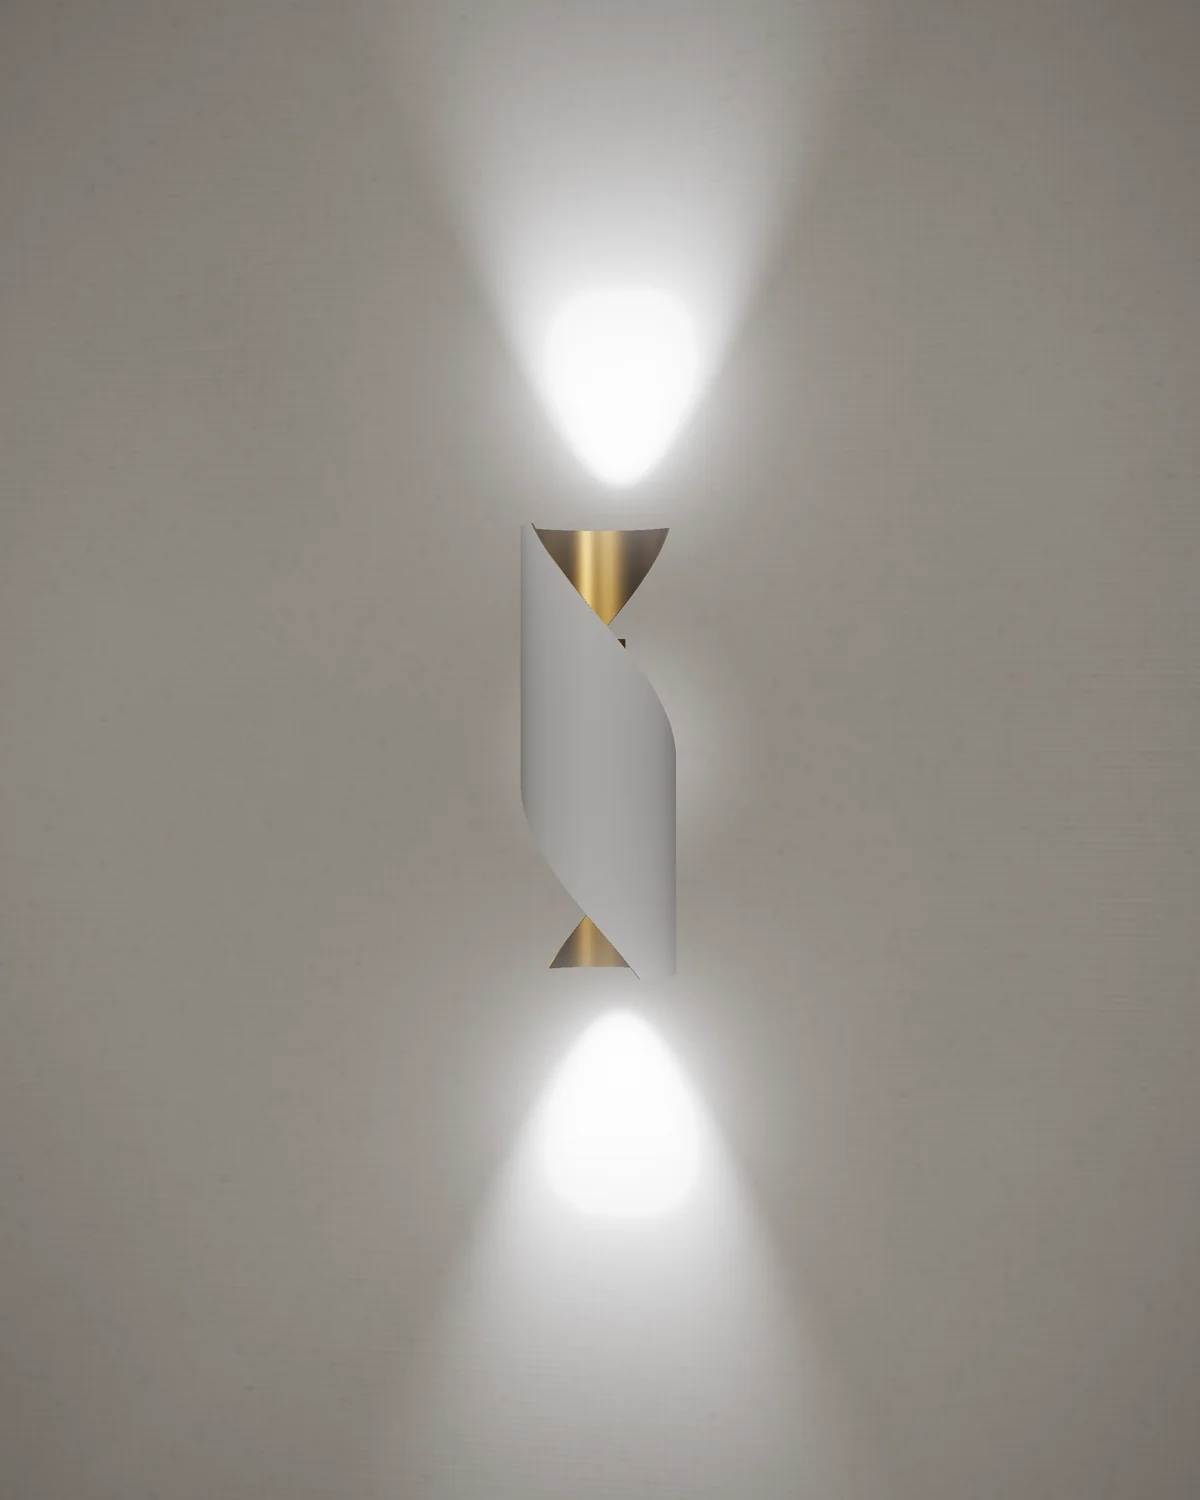
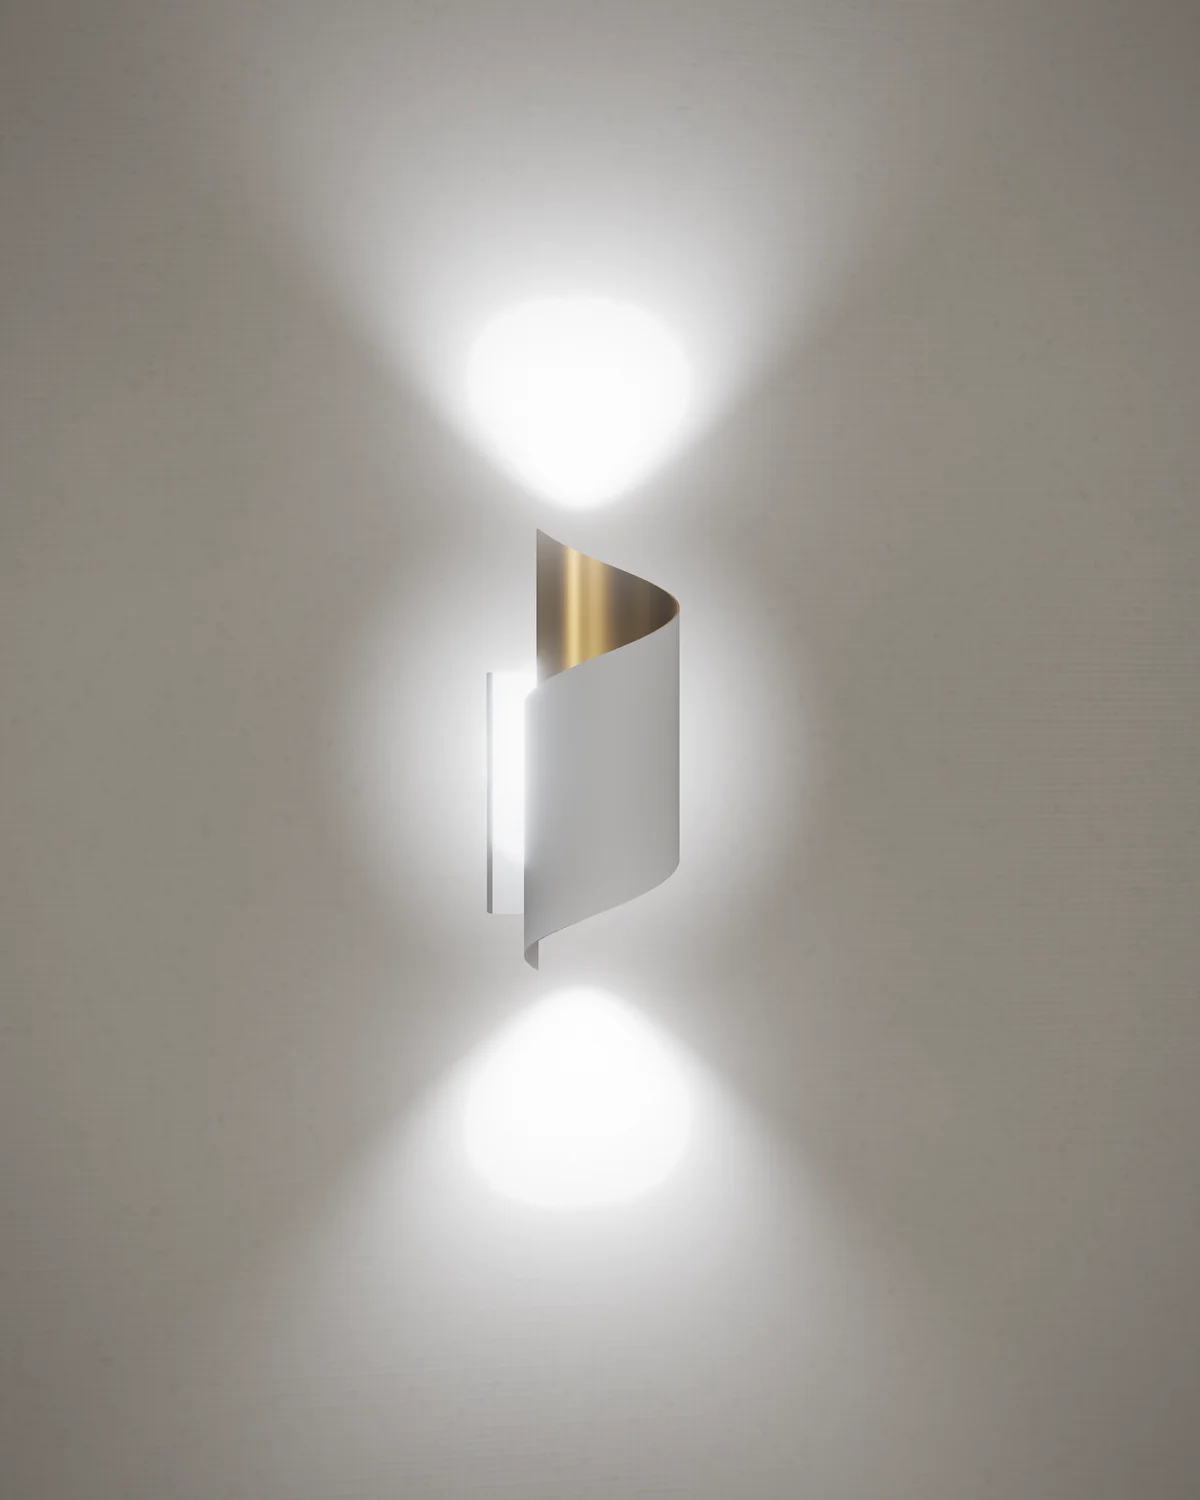
LUMÉANCE : Volute — modèle 3D refait d'après la photo du fournisseur
- Ruban enroulé en hélice sur un tour, bouts verticaux, sens de la spirale corrigé
  (bord supérieur qui monte vers la droite sur la face).
- Platine murale visible à gauche, sous le milieu ; module LED interne masqué.
- Faisceaux plus larges, doublure intérieure plus lumineuse, vue légèrement de gauche.
- 24 visualisations régénérées (mêmes noms de fichiers).

Claude-Session: https://claude.ai/code/session_01SpAfhFNz1rWMKbQ2jPLqg7

Changed region(s): [[0.2467, 0.0307, 0.6783, 0.9813], [0.5858, 0.092, 0.7092, 0.2453], [0.6167, 0.7667, 0.7092, 0.8893]]

diff --git a/lumeance/scripts/render/volute-model.js b/lumeance/scripts/render/volute-model.js
@@ -1,8 +1,7 @@
 // Applique Volute (LUM-APP-002) — modèle 3D d'après les fiches du fournisseur :
 //   grand : hauteur 28 cm, largeur 10 cm ; petit : hauteur 23 cm, largeur 8 cm.
-// Une feuille d'aluminium enroulée en spirale autour d'un axe vertical : la fenêtre angulaire
-// couverte par la feuille tourne avec la hauteur (bord supérieur ouvert à droite, bord inférieur
-// ouvert à gauche, bande pleine qui croise la face au milieu). Extérieur noir ou blanc, intérieur
+// Un ruban d'aluminium enroulé en hélice sur un tour autour d'un axe vertical, bouts verticaux
+// (voir le détail plus bas, d'après la photo du fournisseur). Extérieur noir ou blanc, intérieur
 // de même teinte ou doré. Fixation : platine rectangulaire contre le mur.
 // Éclairage haut et bas (« up & down ») : deux projecteurs LED dans l'axe, ombres portées par la
 // feuille sur le mur. Angles de la spirale estimés d'après les photos (aucun schéma coté fourni).
@@ -14,27 +13,30 @@ export function buildVolute({ THREE, scene, size = "grand", outer, inner, LIGHT,
   const group = new THREE.Group();
   scene.add(group);
 
-  // Fenêtre couverte : largeur W, centre qui tourne de C_BOTTOM (bas) à C_TOP (haut).
-  // θ = 0 : face au spectateur, θ > 0 : vers la droite.
-  const W = THREE.MathUtils.degToRad(190);
-  const C_TOP = THREE.MathUtils.degToRad(-140);
-  const C_BOTTOM = THREE.MathUtils.degToRad(140);
-  const NU = 96, NV = 96;
+  // Ruban : bande de hauteur HS enroulée en hélice sur un tour, d'un bout vertical en haut à
+  // l'arrière gauche (PHI_TOP) à un bout vertical en bas à l'arrière gauche (PHI_BOTTOM).
+  // φ = 0 : face au spectateur, φ > 0 : vers la droite. Le ruban descend en tournant vers la
+  // gauche : en haut il couvre l'arrière et la droite, en bas la gauche et l'avant-gauche ; il
+  // croise la face au milieu, bord supérieur montant vers la droite (photo du fournisseur).
+  const HS = H * 0.56;
+  const PHI_TOP = THREE.MathUtils.degToRad(225);
+  const PHI_BOTTOM = THREE.MathUtils.degToRad(-135);
+  const NU = 160, NV = 24;
+  // Point du ruban : u ∈ [0, 1] le long de l'hélice (0 = bas), w ∈ [0, 1] sur la hauteur du ruban.
+  const at = (u, w, r) => {
+    const t = PHI_BOTTOM + (PHI_TOP - PHI_BOTTOM) * u;
+    const y = -H / 2 + (H - HS) * u + HS * w;
+    return [r * Math.sin(t), y, zc + r * Math.cos(t), Math.sin(t), Math.cos(t)];
+  };
 
   function band(radius) {
     const pos = [], nor = [], idx = [];
-    for (let j = 0; j <= NV; j++) {
-      const v = j / NV;
-      // Bords supérieur et inférieur en biseau (feuille découpée en biais).
-      const c = C_BOTTOM + (C_TOP - C_BOTTOM) * v;
+    for (let j = 0; j <= NV; j++)
       for (let i = 0; i <= NU; i++) {
-        const u = i / NU;
-        const t = c - W / 2 + u * W;
-        const y = (v - 0.5) * H;
-        pos.push(radius * Math.sin(t), y, zc + radius * Math.cos(t));
-        nor.push(Math.sin(t), 0, Math.cos(t));
+        const [px, py, pz, nx, nz] = at(i / NU, j / NV, radius);
+        pos.push(px, py, pz);
+        nor.push(nx, 0, nz);
       }
-    }
     for (let j = 0; j < NV; j++)
       for (let i = 0; i < NU; i++) {
         const a = j * (NU + 1) + i, b = a + 1, d = a + NU + 1, e = d + 1;
@@ -51,38 +53,36 @@ export function buildVolute({ THREE, scene, size = "grand", outer, inner, LIGHT,
   const innerMat = new THREE.MeshStandardMaterial({ ...inner, side: THREE.BackSide });
   const shell = new THREE.Mesh(band(R), outerMat);
   const lining = new THREE.Mesh(band(R - 0.0012), innerMat);
-  // Tranche de la feuille (1,2 mm) : visible sur les bords en biseau.
-  const edgeMat = new THREE.MeshStandardMaterial({ ...inner, side: THREE.DoubleSide });
   for (const m of [shell, lining]) { m.castShadow = true; m.receiveShadow = true; group.add(m); }
-  // Bords : bandes étroites reliant extérieur et intérieur le long des deux bords de la fenêtre.
-  for (const side of [0, 1]) {
-    const pos = [], idx = [];
-    for (let j = 0; j <= NV; j++) {
-      const v = j / NV, c = C_BOTTOM + (C_TOP - C_BOTTOM) * v, t = c - W / 2 + side * W, y = (v - 0.5) * H;
-      for (const r of [R, R - 0.0012]) pos.push(r * Math.sin(t), y, zc + r * Math.cos(t));
+  // Tranche de la feuille (1,2 mm) le long des quatre bords : deux hélices et deux bouts verticaux.
+  const edgeMat = new THREE.MeshStandardMaterial({ ...inner, side: THREE.DoubleSide });
+  const edges = [
+    (k) => [k, 0], (k) => [k, 1], // bords hélicoïdaux bas et haut
+    (k) => [0, k], (k) => [1, k], // bouts verticaux
+  ];
+  for (const edge of edges) {
+    const pos = [], idx = [], N = 160;
+    for (let j = 0; j <= N; j++) {
+      const [u, w] = edge(j / N);
+      for (const r of [R, R - 0.0012]) pos.push(...at(u, w, r).slice(0, 3));
     }
-    for (let j = 0; j < NV; j++) { const a = j * 2; idx.push(a, a + 1, a + 2, a + 1, a + 3, a + 2); }
+    for (let j = 0; j < N; j++) { const a = j * 2; idx.push(a, a + 1, a + 2, a + 1, a + 3, a + 2); }
     const g = new THREE.BufferGeometry();
     g.setAttribute("position", new THREE.Float32BufferAttribute(pos, 3)); g.setIndex(idx); g.computeVertexNormals();
     group.add(new THREE.Mesh(g, edgeMat));
   }
 
-  // Platine murale (même teinte que l'extérieur), derrière la feuille.
+  // Platine murale (même teinte que l'extérieur), derrière la feuille : elle dépasse sur la gauche,
+  // sous le milieu de la pièce.
   const plate = new THREE.Mesh(
-    new THREE.BoxGeometry(R * 0.9, H * 0.42, 0.012),
+    new THREE.BoxGeometry(R * 1.5, H * 0.55, 0.016),
     new THREE.MeshStandardMaterial({ ...outer }),
   );
-  plate.position.set(-R * 0.35, 0, wallZ + 0.006);
+  plate.position.set(-R * 0.5, -H * 0.1, wallZ + 0.008);
   plate.castShadow = true; plate.receiveShadow = true;
   group.add(plate);
 
-  // Module LED (petit cylindre dans l'axe) et lueur interne.
-  const led = new THREE.Mesh(
-    new THREE.CylinderGeometry(R * 0.22, R * 0.22, H * 0.5, 24),
-    new THREE.MeshStandardMaterial({ ...inner }),
-  );
-  led.position.set(0, 0, zc - R * 0.6);
-  group.add(led);
+  // Modules LED haut et bas (lentilles dans l'axe, contre la platine).
   for (const s of [1, -1]) {
     const lens = new THREE.Mesh(
       new THREE.CircleGeometry(R * 0.2, 24),
@@ -93,9 +93,9 @@ export function buildVolute({ THREE, scene, size = "grand", outer, inner, LIGHT,
     group.add(lens);
 
     // Faisceau haut / bas : légèrement incliné vers le mur, ombres portées par la feuille.
-    const spot = new THREE.SpotLight(LIGHT, 0.55, 0, THREE.MathUtils.degToRad(30), 1, 2);
+    const spot = new THREE.SpotLight(LIGHT, 0.5, 0, THREE.MathUtils.degToRad(50), 1, 2);
     spot.position.set(0, s * (H / 2 - 0.012), zc - R * 0.6);
-    spot.target.position.set(0, s * 2, wallZ - 0.35);
+    spot.target.position.set(0, s * 2, wallZ - 0.12);
     spot.castShadow = true;
     spot.shadow.mapSize.set(2048, 2048);
     spot.shadow.camera.near = 0.005;
@@ -104,7 +104,7 @@ export function buildVolute({ THREE, scene, size = "grand", outer, inner, LIGHT,
     group.add(spot, spot.target);
   }
   // Lumière renvoyée à l'intérieur de la feuille (éclaire la doublure dorée).
-  const glow = new THREE.PointLight(LIGHT, 0.05, R * 2.6, 1.2);
+  const glow = new THREE.PointLight(LIGHT, 0.35, R * 4, 1.2);
   glow.position.set(0, 0, zc + R * 0.1);
   group.add(glow);
 

diff --git a/lumeance/scripts/render/scene-volute.html b/lumeance/scripts/render/scene-volute.html
@@ -69,11 +69,11 @@ const fill = new THREE.DirectionalLight(0xffffff, 0.22); fill.position.set(1.2, 
 // ── Luminaire, centré à hauteur d'œil ──
 buildVolute({ THREE, scene, size: SIZE, outer, inner, LIGHT, GLOW, wallZ: 0 });
 
-// ── Caméra : de face, légèrement à droite (comme les photos du fournisseur) ──
+// ── Caméra : de face, légèrement à gauche (comme la photo du fournisseur) ──
 const camera = new THREE.PerspectiveCamera(30, WIDTH / HEIGHT, 0.02, 20);
 const frameH = 0.78;
 const dist = frameH / (2 * Math.tan(THREE.MathUtils.degToRad(15)));
-camera.position.set(dist * 0.22, 0.02, dist);
+camera.position.set(-dist * 0.22, 0.02, dist);
 camera.lookAt(0, 0, 0.05);
 
 const composer = new EffectComposer(renderer);
